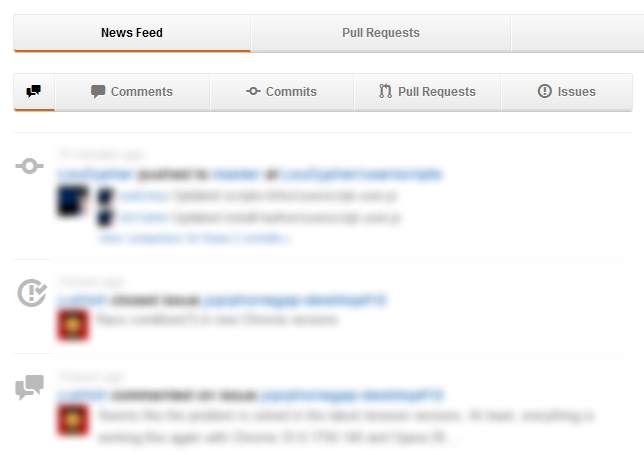
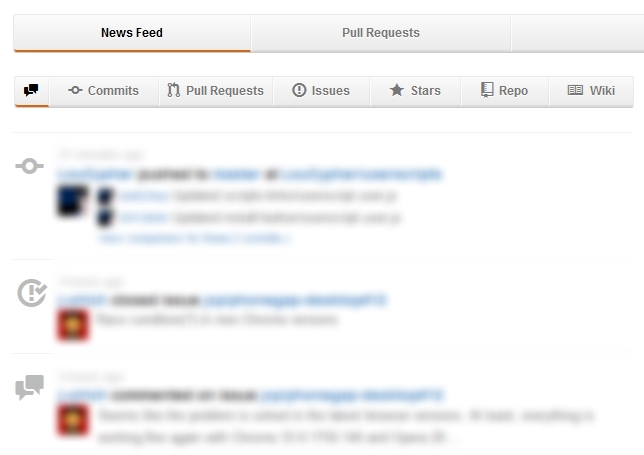
Added more filters

Changed region(s): [[0.0, 0.1846, 0.9938, 0.2462]]

diff --git a/Github_News_Feed_Filter/Github_News_Feed_Filter.user.js b/Github_News_Feed_Filter/Github_News_Feed_Filter.user.js
@@ -8,7 +8,7 @@
 // @downloadURL https://github.com/jerone/UserScripts/raw/master/Github_News_Feed_Filter/Github_News_Feed_Filter.user.js
 // @updateURL   https://github.com/jerone/UserScripts/raw/master/Github_News_Feed_Filter/Github_News_Feed_Filter.user.js
 // @include     https://github.com/
-// @version     2.0
+// @version     3.0
 // @grant       none
 // ==/UserScript==
 
@@ -26,27 +26,31 @@
 	}
 
 	function addFilters() {
-		var container;
-		if (!(container = document.querySelector(".news"))) return;
+		var container = document.querySelector(".news");
+		if (!container) return;
 
 		var ul = document.createElement("ul");
 		ul.classList.add("dashboard-tabs");
+		container.insertBefore(ul, container.firstChild);
 		[{ text: "", icon: "octicon-comment-discussion", filter: ["*"] },
-		 { text: "Comments", icon: "octicon-comment", filter: ["issues_comment"] },
 		 { text: "Commits", icon: "octicon-git-commit", filter: ["push"] },
 		 { text: "Pull Requests", icon: "octicon-git-pull-request", filter: ["pull_request"] },
-		 { text: "Issues", icon: "octicon-issue-opened", filter: ["issues_opened", "issues_closed"] }
+		 { text: "Issues", icon: "octicon-issue-opened", filter: ["issues_opened", "issues_comment", "issues_closed", "issues_reopened"] },
+		 { text: "Stars", icon: "octicon-star", filter: ["watch_started"] },
+		 { text: "Repo", icon: "octicon-repo", filter: ["create"] },
+		 { text: "Wiki", icon: "octicon-book", filter: ["gollum"] }
 		].forEach(function(item) {
 			var li = document.createElement("li");
 			var a = document.createElement("a");
 			a.classList.add("js-selected-navigation-item");
 			a.setAttribute("href", "/");
 			a.setAttribute("title", item.filter.join(" & "));
+			a.style.lineHeight = "28px";
 			var s = document.createElement("span");
 			s.classList.add("octicon", item.icon);
 			if (item.filter == "*") {
 				li.style.cssFloat = "left";
-				li.style.width = "41px";
+				li.style.width = "34px";
 				a.classList.add("selected");
 			} else {
 				s.style.marginRight = "6px";
@@ -58,8 +62,7 @@
 				var alerts = container.querySelectorAll(".alert");
 				Array.forEach(alerts, function(alert) {
 					if (alert.getElementsByClassName("octicon-git-pull-request").length > 0) {
-						alert.classList.remove("issues_opened");
-						alert.classList.remove("issues_closed");
+						alert.classList.remove("issues_opened", "issues_closed");
 						alert.classList.add("pull_request");
 					}
 				});
@@ -78,13 +81,10 @@
 			ul.appendChild(li);
 		});
 
-		container.insertBefore(ul, container.firstChild);
-
 		// update on clicking "More"-button;
-		var event = new Event("click");
 		$.pageUpdate(function() {
 			window.setTimeout(function() {
-				container.querySelector(".selected").dispatchEvent(event);
+				container.querySelector(".selected").dispatchEvent(new Event("click"));
 			}, 1);
 		});
 	}

diff --git a/Github_News_Feed_Filter/README.md b/Github_News_Feed_Filter/README.md
@@ -19,8 +19,12 @@ Add filters for Github homepage news feed items.
 ### Version History
 
 <dl>
+    <dt>3.0</dt>
+        <dd>Added Stars, Repo and Wiki filter;</dd>
+        <dd>Moved Comments to Issues filter;</dd>
+        <dd>Made menu lower;</dd>
     <dt>2.0</dt>
-        <dd>Added Pull Requests filter</dd>
+        <dd>Added Pull Requests filter;</dd>
     <dt>1.0</dt>
         <dd>Initial version</dd>
 </dl> 
